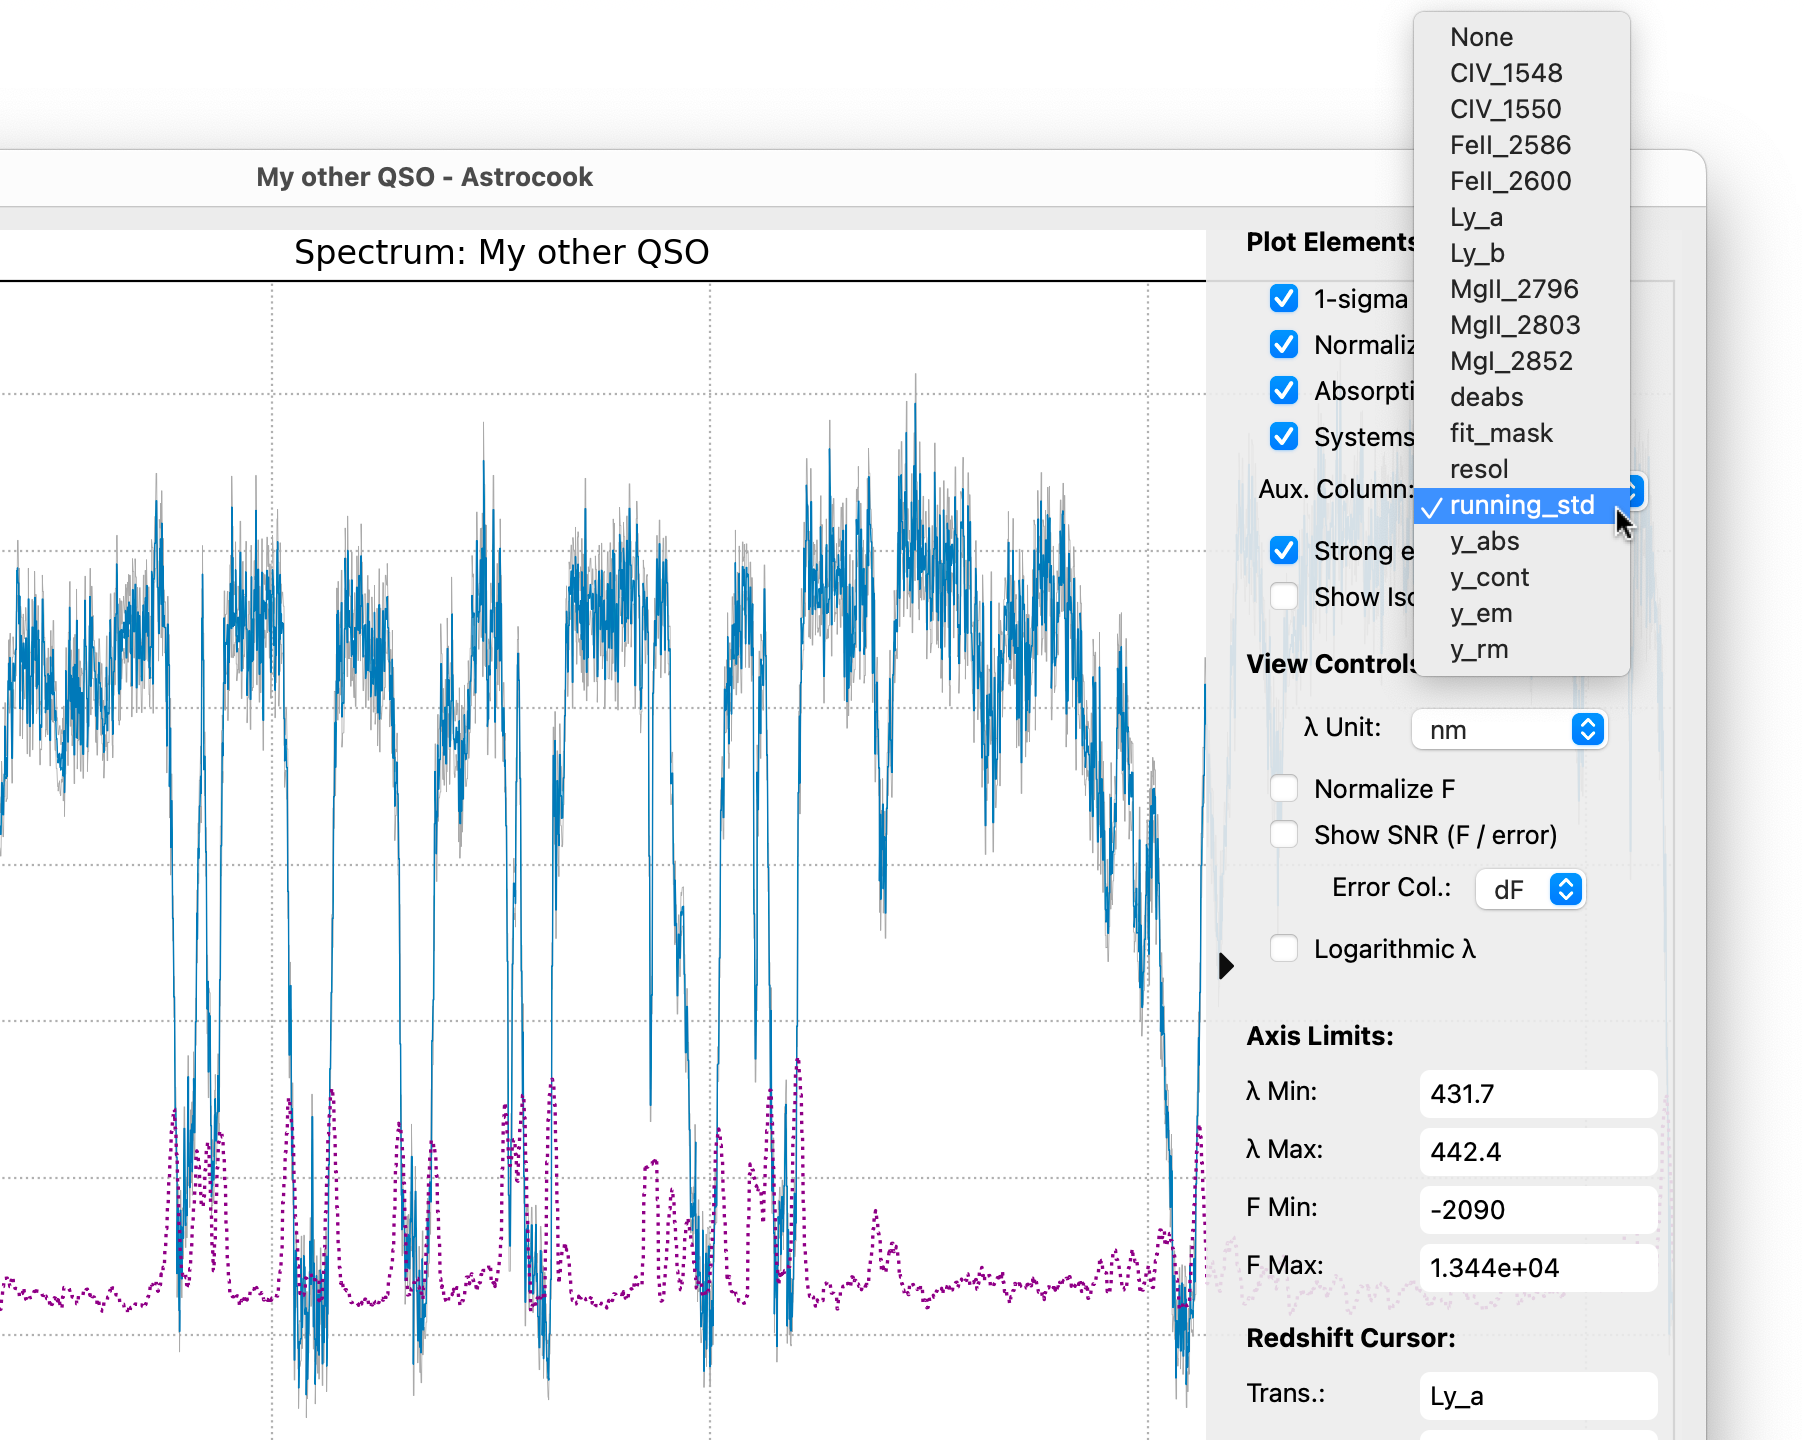
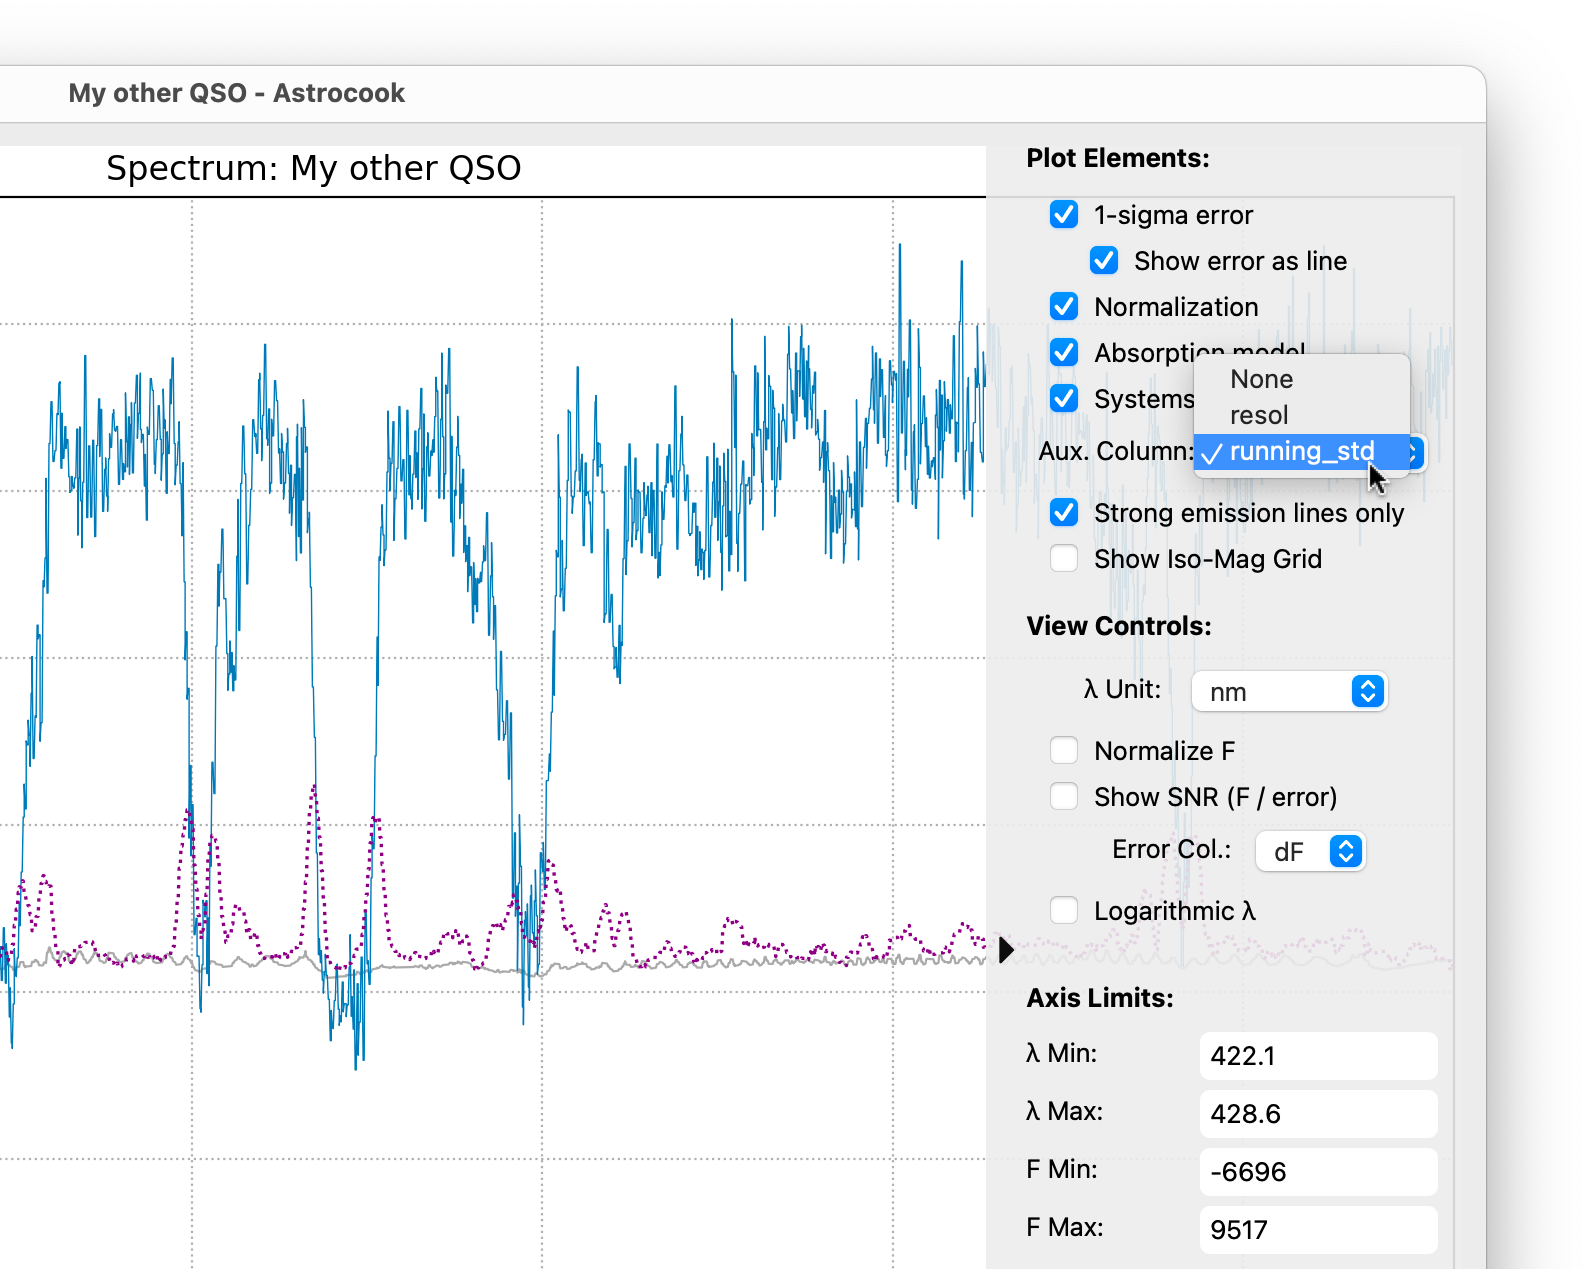
fix(docs): Updated tutorials and figures

diff --git a/docs/tutorials/getting_started.md b/docs/tutorials/getting_started.md
@@ -29,6 +29,16 @@ The central plot is interactive. You can explore the details of your spectrum us
 Hover your mouse over any data point or absorption line. A tooltip will appear displaying the precise Wavelength, Flux, and information about identified components or regions!
 :::
 
+(data-inspector)=
+### The Data Inspector
+
+For precise pixel-level analysis, you can open the **Data Inspector**.
+
+1.  **Right-click** on any point in the spectrum plot.
+2.  Select **Inspect Data (near ...)** from the context menu.
+
+This opens a floating window displaying the raw values (Wavelength, Flux, Error, Continuum) centered on the pixel you clicked. The table supports infinite scrolling, automatically loading more data as you move up or down.
+
 (getting-started-customizing)=
 ## 3. Customizing the View (Right Sidebar)
 
@@ -39,6 +49,7 @@ Look to the right side of the window. This is the **Plot Controls** panel. Here 
 You can show or hide specific layers of the plot:
 
 - **1-sigma error**: Hides the grey error shading.
+- **Show error as line**: Instead of a shaded band, plots the error array ($dy$) as a separate line. Useful for inspecting noise structure in high-resolution spectra.
 - **Normalization**: Hides the continuum level (dashed black line).
 - **Absorption model**: Hides the Voigt profile fits (solid red line).
 - **Systems**: Hides the vertical tick marks indicating identified systems.
@@ -97,11 +108,13 @@ If you loaded multiple spectra, click on their names in this list to switch the 
 
 ### Session Info & Properties
 
-Right-click on any session in the list to open the context menu. Select **View Info** to open the Session Inspector. Here you can see (and edit) critical metadata:
+Right-click on any session in the list to open the context menu. This menu offers several powerful tools:
 
-- **Object Name**
-- **Emission Redshift ($z_\mathrm{em}$)**: Crucial for many recipes like the Ly-$\alpha$ forest analysis.
-- **Resolution ($R$)**: Essential for accurate Voigt profile fitting.
+- **View Info**: Opens the Session Inspector. Here you can see (and edit) critical metadata:
+  - **Object Name**
+  - **Emission Redshift ($z_\mathrm{em}$)**: Crucial for many recipes like the Ly-$\alpha$ forest analysis.
+  - **Resolution ($R$)**: Essential for accurate Voigt profile fitting.
+- **Duplicate**: Creates a complete copy of the current session. This allows you to branch your analysis (e.g., to test two different continuum fits on the same data).
 
 ### The Log Scripter
 

diff --git a/docs/tutorials/absorption_systems.md b/docs/tutorials/absorption_systems.md
@@ -94,7 +94,10 @@ Just like in the main window, if the **Zoom** or **Pan** tools are active in the
 If the auto-finder missed a line:
 
 1. In the Velocity Plot (right panel), **Right-click** on the background where the line should be.
-2. Select **Add [Ion] at z=...**.
+2. The menu offers smart options based on the transition you clicked:
+   - **Add [Ion] (Single Line):** Adds only the specific line under the cursor.
+   - **Add [Ion] (Standard):** Adds the full standard multiplet (e.g., both members of the CIV doublet).
+   - **Add [List] (Subset):** Adds exactly the set of transitions currently visible in the Inspector.
 3. A new component is added and fitted immediately.
 
 :::{note}
@@ -112,7 +115,7 @@ To fix a parameter during fitting:
 1. Select the component(s) in the table.
 2. **Right-click** to open the context menu.
 3. Select **Freeze 'b'** (or `z`, `logN`).
-4. The value will turn _italic_, indicating it is locked.
+4. The value will turn *italic* and the uncertainty display ($\pm$) will disappear, indicating it is fixed.
 
 ### Parameter Linking
 
@@ -135,7 +138,7 @@ Astrocook also tracks a turbulent broadening parameter `btur` separately. It is 
 
 After manual edits, you often need to re-optimize the fit:
 
-- **Refit Selected:** Right-click the table and choose "Refit Selected" to optimize only the highlighted lines.
+- **Refit Selected:** Select one **or more** components in the table, right-click, and choose "Refit Selected". This will optimize all highlighted lines (and their physical neighbors) in a batch process.
 - **Refit All:** Go to **Absorbers > Refit All Systems...** (in the main window) to re-optimize the entire spectrum, handling blends automatically.
 
 ```{image} ../_static/absorbers_linking.png

diff --git a/docs/tutorials/flux_operations.md b/docs/tutorials/flux_operations.md
@@ -49,7 +49,18 @@ Rebinning is more rigorous than smoothing. It combines adjacent pixels into larg
 Unlike smoothing, rebinning changes the X-axis grid. The new flux values are calculated to preserve the physical energy/counts per bin.
 :::
 
-## 4. Resampling
+## 4. Equalizing
+
+Sometimes the flux calibration between two exposures or arms of a spectrograph differs. You can scale the current session's flux to match a reference session.
+
+1.  Go to **Flux > Equalize to Reference...**.
+2.  **Reference Session:** Select the session you want to match.
+3.  **Order:** Choose the complexity of the scaling:
+    * `0` (Scalar): Multiplies flux by a constant factor.
+    * `-1` (Spline): Fits a smooth curve to match the shape.
+    * `1` or higher: Fits a polynomial of that order.
+
+## 5. Resampling
 
 Resampling is different from rebinning. It interpolates your spectrum onto an arbitrary grid defined by _another_ open session. This is a critical prerequisite for comparing two spectra pixel-by-pixel (e.g., for creating a ratio or difference spectrum).
 
@@ -64,7 +75,7 @@ Resampling is different from rebinning. It interpolates your spectrum onto an ar
 Session A will now have exactly the same wavelength points as Session B, allowing you to use [Apply Expression](#editing-arithmetic) to compute `y / SessionB.y`.
 
 (flux-calibration)=
-## 5. Flux Calibration
+## 6. Flux Calibration
 
 If your spectrum is not flux-calibrated (or the calibration is off), you can warp it to match known photometric data.
 

diff --git a/docs/tutorials/continuum_fitting.md b/docs/tutorials/continuum_fitting.md
@@ -19,6 +19,10 @@ This recipe requires **Emission Redshift ($z_{em}$)** to be defined. If missing,
 
 Astrocook will generate a new continuum curve (black dashed line). If you have a `model` (absorption lines) already defined, it will automatically re-normalize it to match the new continuum.
 
+:::{tip}
+You can use the **Data Inspector** (Right-click on the plot) to examine the exact continuum values (`cont`) and residuals at any pixel. See [The Data Inspector](getting_started.md#data-inspector).
+:::
+
 ```{image} ../_static/continuum_auto.png
 :alt: Applying a mathematical expression to a column
 :align: center
@@ -42,9 +46,13 @@ Automatic fits sometimes fail near complex emission lines or spectral edges. You
 2. Click the **Start** button.
 3. **Knots** (black dots) will appear along the current continuum.
 
-   :::{note}
-   If no continuum exists yet, Astrocook will prompt you to run the **Auto-estimate** routine first. You cannot edit the raw flux directly.
-   :::
+:::{note}
+If no continuum exists yet, Astrocook will prompt you to run the **Auto-estimate** routine first. You cannot edit the raw flux directly.
+:::
+
+:::{tip}
+Manual editing modifies the session in place. If you want to compare your manual fit against the automatic one, use the **Duplicate** command in the Session List context menu to create a backup copy before you start editing.
+:::
 
 ### Modifying Knots
 

diff --git a/docs/tutorials/editing_data.md b/docs/tutorials/editing_data.md
@@ -140,6 +140,9 @@ If you have spectra covering _different_ wavelength ranges (e.g., Blue and Red a
 1. Select the sessions as above.
 2. Right-click and choose **Stitch N sessions...**.
 3. This concatenates the data arrays without resampling.
+   :::{note}
+   The recipe automatically cleans up `NaN` values (e.g., gaps between detectors) to ensure the resulting plot is continuous and does not suffer from "scatter-plot" artifacts.
+   :::
 
 ```{image} ../_static/editing_multiselect_coadd.png
 :alt: Context menu for co-adding multiple sessions
